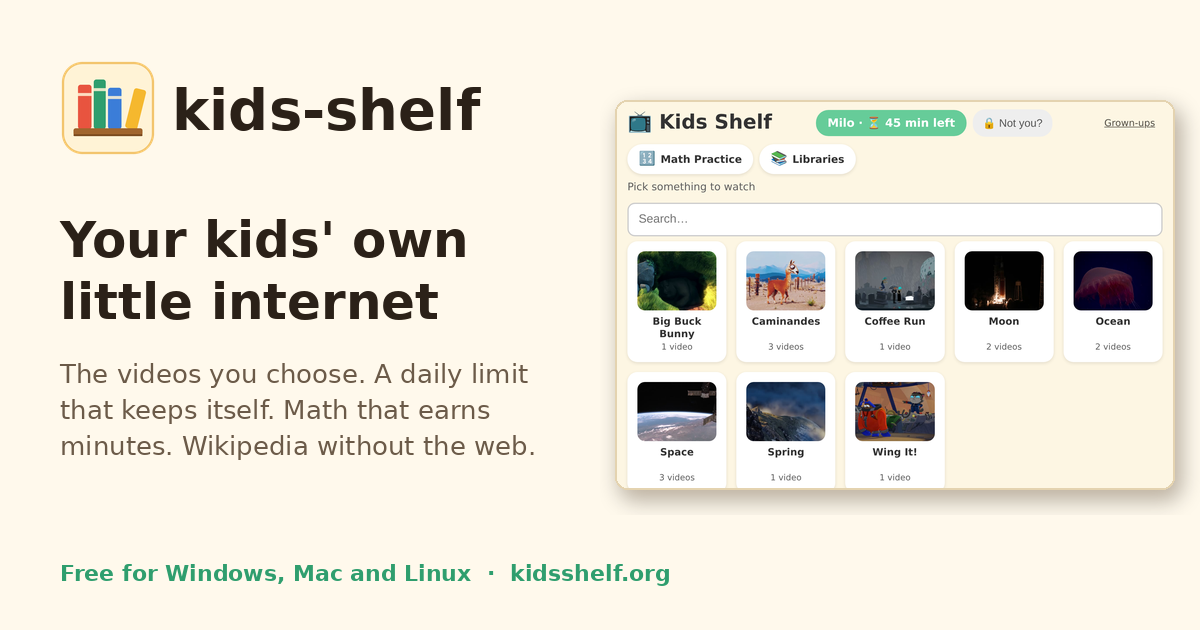
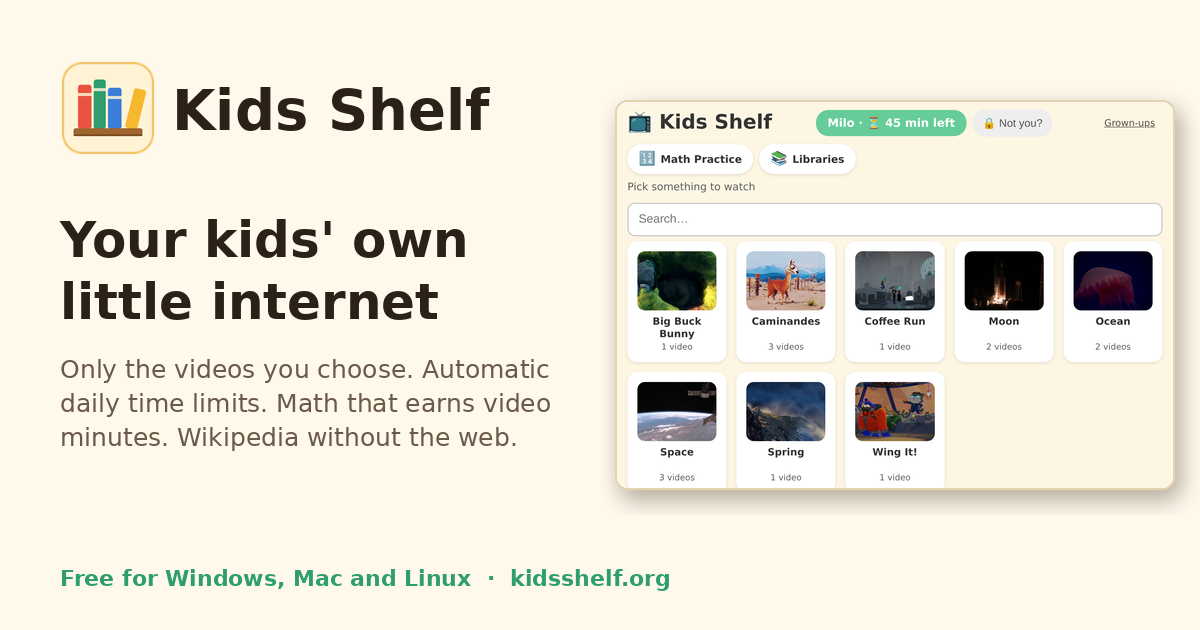
site: plainer wording, the name written Kids Shelf

Changed region(s): [[0.0308, 0.573, 0.4625, 0.7238], [0.1542, 0.1206, 0.4008, 0.2111], [0.0617, 0.8746, 0.555, 0.9349]]

diff --git a/site/index.html b/site/index.html
@@ -3,12 +3,12 @@
 <head>
 <meta charset="utf-8">
 <meta name="viewport" content="width=device-width, initial-scale=1">
-<title>kids-shelf: your kids' own little internet</title>
-<meta name="description" content="kids-shelf turns a computer you already have into a small internet for your kids: the videos you choose, a daily time limit that keeps itself, math that earns extra minutes, and Wikipedia without the rest of the web. Free for Windows, Mac and Linux.">
+<title>Kids Shelf: your kids' own little internet</title>
+<meta name="description" content="Kids Shelf turns a computer you already have into a small internet for your kids: only the videos you choose, automatic daily time limits, math practice that earns extra video minutes, and Wikipedia without the rest of the web. Free for Windows, Mac and Linux.">
 <meta property="og:type" content="website">
 <meta property="og:url" content="https://kidsshelf.org/">
-<meta property="og:title" content="kids-shelf: your kids' own little internet">
-<meta property="og:description" content="The videos you choose, a daily time limit that keeps itself, math that earns extra minutes, and Wikipedia without the rest of the web. Free, on a computer you already have.">
+<meta property="og:title" content="Kids Shelf: your kids' own little internet">
+<meta property="og:description" content="Only the videos you choose, automatic daily time limits, math that earns extra video minutes, and Wikipedia without the rest of the web. Free, on a computer you already have.">
 <meta property="og:image" content="https://kidsshelf.org/img/og.png">
 <meta property="og:image:width" content="1200">
 <meta property="og:image:height" content="630">
@@ -21,7 +21,7 @@
 <body>
 
 <header class="top">
-  <a class="brand" href="#"><img src="icon.svg" alt="" width="36" height="36"><span>kids-shelf</span></a>
+  <a class="brand" href="#"><img src="icon.svg" alt="" width="36" height="36"><span>Kids Shelf</span></a>
   <nav>
     <a href="#features">What it does</a>
     <a href="#install">Install</a>
@@ -35,30 +35,30 @@
 <section class="hero">
   <div class="hero-text">
     <h1>Your kids' own little internet</h1>
-    <p class="lead">kids-shelf turns a computer you already have into a small internet for your kids: the
-      videos you choose, a daily time limit that keeps itself, math practice that earns extra
+    <p class="lead">Kids Shelf turns a computer you already have into a small internet for your kids:
+      only the videos you choose, automatic daily time limits, math practice that earns extra video
       minutes, and Wikipedia without the rest of the web.</p>
     <div class="get" data-get>
-      <a class="btn big" data-main href="#download">Download kids-shelf</a>
+      <a class="btn big" data-main href="#download">Download Kids Shelf</a>
       <p class="get-note" data-main-note>Free for Windows, Mac and Linux.</p>
     </div>
-    <p class="phone-note hidden" data-phone-note>kids-shelf runs on a computer. Open this page on the
+    <p class="phone-note hidden" data-phone-note>Kids Shelf runs on a computer. Open this page on the
       Windows PC, Mac or Linux computer that will keep the videos, and download it there. Then this
-      phone, the TV and every other screen in the house open kids-shelf in their web browser.</p>
+      phone, the TV and every other screen in the house open Kids Shelf in their web browser.</p>
   </div>
   <div class="hero-shots">
     <img class="shot desk" src="img/shelf.webp" width="1600" height="1114"
-      alt="A kid's shelf in kids-shelf: rows of shows with pictures, and the minutes left today at the top">
+      alt="A kid's shelf in Kids Shelf: rows of shows with pictures, and the minutes left today at the top">
     <img class="shot phone" src="img/shelf-phone.webp" width="780" height="1560"
       alt="The same shelf on a phone">
   </div>
 </section>
 
 <section class="points" aria-label="In short">
-  <div><b>No feed</b><span>Nothing picks the next video.</span></div>
+  <div><b>No algorithm, no autoplay</b><span>Nothing picks or plays the next video, so there's no loop to get hooked on.</span></div>
   <div><b>No ads</b><span>No accounts, no tracking.</span></div>
   <div><b>Every screen</b><span>TV, laptop, phone: any web browser.</span></div>
-  <div><b>Free</b><span>Open source, MIT licence.</span></div>
+  <div><b>Free</b><span>Open source, MIT license.</span></div>
 </section>
 
 <section id="features" class="features">
@@ -67,7 +67,7 @@
     <img class="shot" src="img/timesup.webp" width="1500" height="940" loading="lazy"
       alt="The player saying Time's up! You used all your minutes for today. Shows marked Free still work.">
     <div>
-      <h2>A daily limit that keeps itself</h2>
+      <h2>Automatic daily time limits</h2>
       <p>Each kid picks their name, types their own PIN and sees how many minutes are left today.
         The minutes count down while they watch. At zero the video stops and the shelf says
         <q>Time's up!</q>, so you are not the one who has to say it.</p>
@@ -81,10 +81,12 @@
     <img class="shot" src="img/math.webp" width="1600" height="1000" loading="lazy"
       alt="Math practice asking 1 + 14, with the coin count: 5 of 10 coins, 5 more for 1 more minute of watching">
     <div>
-      <h2>Math that earns minutes</h2>
-      <p>Math and spelling practice is one tap from the shelf. Right answers fill a coin jar, and
-        every full jar is another minute of video. It gives kids their own reason to practice, and
-        the extra time is capped each day, so practice can't turn into an all-day pass.</p>
+      <h2>Math that earns video minutes</h2>
+      <p>Short math and spelling rounds are one tap from the shelf. Right answers fill a coin jar,
+        and every full jar adds a minute of video time. Each round leans toward the facts your kid
+        hasn't mastered yet.</p>
+      <p>Kids can earn up to 3 minutes a day from math and 3 from spelling. To earn more, they come
+        back tomorrow: a little practice every day sticks better than one long session.</p>
     </div>
   </article>
 
@@ -104,21 +106,23 @@
       alt="The video player paused on a short film, with the minutes left and a Big screen button above it">
     <div>
       <h2>Only the videos you choose</h2>
-      <p>There is no feed and no autoplay. Your kids see only the shows you put on their shelf,
-        and when an episode ends it stops; the next one plays only if they press <b>Next</b>.</p>
-      <p>Paste a link to a YouTube video, a playlist or a whole channel, and kids-shelf downloads it
+      <p>There's no algorithmic feed and no autoplay, the two things that keep kids watching one
+        more video. Your kids see only the shows you put on their shelf. When an episode ends, it
+        stops; the next one plays only if they press <b>Next</b>.</p>
+      <p>Paste a link to a YouTube video, a playlist or a whole channel, and Kids Shelf downloads it
         and keeps its own copy, so your kids never see YouTube itself: no suggestions, no
-        comments, no ads. Your own video files and NAS folders work too.</p>
+        comments, no ads. Videos you already have, on your computer or a home network drive, work
+        too.</p>
     </div>
   </article>
 
   <article class="feature">
     <img class="shot" src="img/wikipedia.webp" width="1600" height="1004" loading="lazy"
-      alt="The Wikipedia article Solar eclipse, opened from the offline library in kids-shelf">
+      alt="The Wikipedia article Solar eclipse, opened from the offline library in Kids Shelf">
     <div>
       <h2>Wikipedia, without the web</h2>
       <p>Download offline libraries: Wikipedia, Vikidia (an encyclopedia written for 8 to 13
-        year olds), PhET science simulations and more. They live on your computer and work with
+        year olds), PhET's interactive science experiments and more. They live on your computer and work with
         the internet unplugged. Links that would leave the library don't open.</p>
       <p class="small">Sizes range from 74 MB (Vikidia) to about 120 GB (all of English Wikipedia).
         Library files you already have from the Kiwix app work where they are.</p>
@@ -130,7 +134,7 @@
       alt="Who's watching? Each kid has a big button with their name">
     <div>
       <h2>Every screen in the house</h2>
-      <p>One computer runs kids-shelf. Anything with a web browser on your home Wi-Fi opens it: the
+      <p>One computer runs Kids Shelf. Anything with a web browser on your home Wi-Fi opens it: the
         TV, a Raspberry Pi, an old laptop, a phone. Scan the QR code on the parent page, or type
         <code>kids-shelf.local:8070</code>. There is nothing to install on the screens and nothing
         to buy.</p>
@@ -144,10 +148,11 @@
       <h2>Yours, on your computer</h2>
       <p>No accounts, no cloud, no ads and no tracking. Your videos, libraries and settings stay
         on your own computer, and nothing the kids watch, read or type leaves it.
-        kids-shelf goes online only to download what you add and to update itself and its video
+        Kids Shelf goes online only to download what you add and to update itself and its video
         tools.</p>
-      <p>It updates itself once a day, checks every update's signature first, and goes back to
-        the old version by itself if a new one doesn't start.</p>
+      <p>It updates itself, checks that each update really came from me before installing it,
+        goes back to the previous version by itself if a new one doesn't start, and clears away
+        old versions so it doesn't fill up your disk.</p>
     </div>
   </article>
 
@@ -155,21 +160,21 @@
 
 <section id="download" class="download">
   <h2>Download</h2>
-  <p class="release" data-release>Free. Pick the file for the computer that will run kids-shelf.</p>
+  <p class="release" data-release>Free. Pick the file for the computer that will run Kids Shelf.</p>
   <ul class="files" data-files>
     <li data-key="windows"><a href="https://github.com/edementhon/kids-shelf/releases/latest/download/kids-shelf_windows_amd64.zip"><b>Windows</b><span>64-bit Windows</span><i data-size></i></a></li>
     <li data-key="mac"><a href="https://github.com/edementhon/kids-shelf/releases/latest/download/kids-shelf_darwin_universal.zip"><b>Mac</b><span>Apple chip or Intel</span><i data-size></i></a></li>
     <li data-key="linux"><a href="https://github.com/edementhon/kids-shelf/releases/latest/download/kids-shelf_linux_amd64.zip"><b>Linux PC</b><span>64-bit Intel or AMD</span><i data-size></i></a></li>
     <li data-key="linux-arm"><a href="https://github.com/edementhon/kids-shelf/releases/latest/download/kids-shelf_linux_arm64.zip"><b>Raspberry Pi</b><span>64-bit Raspberry Pi OS</span><i data-size></i></a></li>
   </ul>
-  <p class="small">The computer that runs kids-shelf has to be switched on and awake while the kids
+  <p class="small">The computer that runs Kids Shelf has to be switched on and awake while the kids
     watch, and it keeps the videos and libraries, so it needs the disk space for them. Every
     release, with its source code, is on <a href="https://github.com/edementhon/kids-shelf/releases">GitHub</a>.</p>
 </section>
 
 <section id="install" class="install">
   <h2>Install</h2>
-  <p>kids-shelf is free and isn't sold through Microsoft or Apple, so both of them warn you before
+  <p>Kids Shelf is free and isn't sold through Microsoft or Apple, so both of them warn you before
     it first runs. The warnings sound scary. They are normal for this app, and the steps below
     show what to click.</p>
 
@@ -183,12 +188,12 @@
         <img class="step" src="img/win-run-anyway.webp" width="640" height="400" loading="lazy"
           alt="Windows protected your PC, with the Run anyway button"></li>
       <li>Windows Firewall asks whether <b>Kids Shelf</b> may use public and private networks. Click
-        <b>Allow</b>: it lets the other screens on your Wi-Fi reach kids-shelf.</li>
-      <li>kids-shelf installs itself and opens in your browser. From now on, start it from the
+        <b>Allow</b>: it lets the other screens on your Wi-Fi reach Kids Shelf.</li>
+      <li>Kids Shelf installs itself and opens in your browser. From now on, start it from the
         <b>kids-shelf</b> icon on the desktop or in the Start menu.</li>
     </ol>
     <p class="small">Some Windows 11 computers have <b>Smart App Control</b> switched on. Windows then checks
-      kids-shelf before it lets it run, which can take a minute the first time and, now and then,
+      Kids Shelf before it lets it run, which can take a minute the first time and, now and then,
       up to an hour. The <a href="https://github.com/edementhon/kids-shelf/blob/main/docs/parent-guide.md#windows-11">full guide</a>
       explains what you'll see.</p>
   </details>
@@ -207,7 +212,7 @@
         <img class="step" src="img/mac-open-anyway.webp" width="640" height="400" loading="lazy"
           alt="Privacy and Security settings with the Open Anyway button"></li>
       <li>macOS asks once more. Click <b>Open Anyway</b> and type your Mac password.</li>
-      <li>kids-shelf installs itself into Applications, puts its icon (a little bookshelf) in the Dock
+      <li>Kids Shelf installs itself into Applications, puts its icon (a little bookshelf) in the Dock
         and opens in Safari. When macOS asks whether kids-shelf may find devices on local networks,
         click <b>Allow</b>.</li>
     </ol>
@@ -241,19 +246,19 @@
   <h2>Questions</h2>
   <details>
     <summary>What does it cost?</summary>
-    <p>Nothing. kids-shelf is free and open source under the MIT licence. There is no subscription,
+    <p>Nothing. Kids Shelf is free and open source under the MIT license. There is no subscription,
       no paid version and no ads.</p>
   </details>
   <details>
     <summary>Why is it free?</summary>
-    <p>I made kids-shelf for my own kids. Friends wanted to try it with theirs, and sharing it
+    <p>I made Kids Shelf for my own kids. Friends wanted to try it with theirs, and sharing it
       costs me nothing, so here it is.</p>
   </details>
   <details>
     <summary>Why do Windows and macOS warn about it?</summary>
     <p>Microsoft and Apple warn about any app whose maker hasn't paid them to vouch for it.
-      kids-shelf doesn't pay, so you see the warnings once, when you first open it. Updates
-      install without them, and each one is signed so kids-shelf can check it came from me.</p>
+      Kids Shelf doesn't pay, so you see the warnings once, when you first open it. Updates
+      install without them, and each one is signed so Kids Shelf can check it came from me.</p>
   </details>
   <details>
     <summary>Does it need the internet?</summary>
@@ -268,9 +273,9 @@
   </details>
   <details>
     <summary>Can my kids get around it?</summary>
-    <p>kids-shelf decides what its shelf shows and for how long. It doesn't lock down the phone,
+    <p>Kids Shelf decides what its shelf shows and for how long. It doesn't lock down the phone,
       tablet or TV the kids use, so a kid who can open a web browser can still go elsewhere. It
-      works best on screens set to open only kids-shelf, like a TV browser or a Raspberry Pi.</p>
+      works best on screens set to open only Kids Shelf, like a TV browser or a Raspberry Pi.</p>
   </details>
   <details>
     <summary>Can I see the code?</summary>
@@ -282,8 +287,8 @@
 </main>
 
 <footer>
-  <p><img src="icon.svg" alt="" width="20" height="20"> kids-shelf. Free and open source
-    (<a href="https://github.com/edementhon/kids-shelf/blob/main/LICENSE">MIT licence</a>).
+  <p><img src="icon.svg" alt="" width="20" height="20"> Kids Shelf. Free and open source
+    (<a href="https://github.com/edementhon/kids-shelf/blob/main/LICENSE">MIT license</a>).
     <a href="https://github.com/edementhon/kids-shelf">Source code</a>.</p>
   <p class="small">This site sets no cookies and loads nothing from other sites except the version
     number and file sizes, which it asks GitHub for.</p>

diff --git a/site/download.js b/site/download.js
@@ -64,7 +64,7 @@
       ? new Date(rel.published_at).toLocaleDateString(undefined, { year: 'numeric', month: 'long', day: 'numeric' })
       : '';
     $('[data-release]').textContent = 'Version ' + version + (when ? ', released ' + when : '') +
-      '. Free. Pick the file for the computer that will run kids-shelf.';
+      '. Free. Pick the file for the computer that will run Kids Shelf.';
     if (others && /^[0-9A-Za-z.+-]+$/.test(version)) {
       $('[data-main-note]').innerHTML = 'Version ' + version + ', free. ' + others;
     }

diff --git a/THIRD_PARTY_NOTICES.md b/THIRD_PARTY_NOTICES.md
@@ -1,9 +1,9 @@
 # Third Party Notices
 
-kids-shelf itself is licensed under the MIT licence (see LICENSE). It
+kids-shelf itself is licensed under the MIT license (see LICENSE). It
 also bundles third-party programs and libraries, which keep their own
-licences; this file lists every bundled component with its version,
-licence and upstream URL, so nothing ships without its provenance. The
+licenses; this file lists every bundled component with its version,
+license and upstream URL, so nothing ships without its provenance. The
 helper programs are separate programs that kids-shelf extracts and runs;
 they are not linked into kids-shelf's own code.
 
@@ -16,7 +16,7 @@ The Go module sources are the ones go.sum pins.
 
 ## Bundled helper programs (inside every release zip)
 
-| Component | Version | Licence | Upstream |
+| Component | Version | License | Upstream |
 | --- | --- | --- | --- |
 | FFmpeg (ffmpeg, ffprobe, plus ffmpeg-hw on linux/amd64) | 9.0.2 | GPL-2.0-or-later as built: configured with `--enable-gpl` and libx264 (stock FFmpeg without the GPL parts is LGPL-2.1-or-later; LICENSE.md in the sources explains the split). ffmpeg-hw is the same build linked against glibc (2.28 symbol baseline) with the h264_vaapi, h264_nvenc and h264_qsv encoders; it loads libva/libva-drm from the user's system at run time | https://ffmpeg.org/ |
 | x264 | b35605ace3ddf7c1a5d67a2eb553f034aef41d55 | GPL-2.0-or-later | https://code.videolan.org/videolan/x264 |
@@ -26,28 +26,28 @@ The Go module sources are the ones go.sum pins.
 | libkiwix | 14.2.1 | GPL-3.0-or-later | https://github.com/kiwix/libkiwix |
 | libzim | 9.8.2 | GPL-3.0-or-later | https://github.com/openzim/libzim |
 | xapian-core | 1.4.23 | GPL-2.0-or-later | https://xapian.org/ |
-| ICU4C | 73.2 | Unicode-DFS-2016 (the Unicode licence in its LICENSE file) | https://github.com/unicode-org/icu |
+| ICU4C | 73.2 | Unicode-DFS-2016 (the Unicode license in its LICENSE file) | https://github.com/unicode-org/icu |
 | zstd | 1.5.7 | BSD-3-Clause | https://github.com/facebook/zstd |
-| xz (liblzma) | 5.2.6 | public domain / 0BSD (several licences, per-file split in its COPYING) | https://tukaani.org/xz/ |
+| xz (liblzma) | 5.2.6 | public domain / 0BSD (several licenses, per-file split in its COPYING) | https://tukaani.org/xz/ |
 | zlib | 1.3.1 | Zlib | https://github.com/madler/zlib |
 | pugixml | 1.15 | MIT | https://github.com/zeux/pugixml |
 | docopt.cpp | 0.6.3 | MIT (LICENSE-MIT in the archive) | https://github.com/docopt/docopt.cpp |
-| libcurl | 8.4.0 | curl licence (MIT-style ISC with the curl exceptions) | https://curl.se/ |
+| libcurl | 8.4.0 | curl license (MIT-style ISC with the curl exceptions) | https://curl.se/ |
 | libmicrohttpd | 0.9.76 | LGPL-2.1-or-later (dual-licensed with the eCos exception; this build enables no TLS, so the LGPL path applies) | https://www.gnu.org/software/libmicrohttpd/ |
 | mustache.hpp (kainjow/Mustache) | 4.1 | BSL-1.0 (per the pinned archive's LICENSE) | https://dev.kiwix.org/kiwix-build/mustache-4.1.tar.gz (upstream https://github.com/kainjow/Mustache) |
-| NVIDIA Codec SDK headers (ffnvcodec: h264_nvenc on windows and ffmpeg-hw) | 13.0.19.0 | NVIDIA permissive licence (MIT-style text in every header; FFmpeg's configure has not required `--enable-nonfree` for nvenc since 4.0) | https://github.com/FFmpeg/nv-codec-headers |
+| NVIDIA Codec SDK headers (ffnvcodec: h264_nvenc on windows and ffmpeg-hw) | 13.0.19.0 | NVIDIA permissive license (MIT-style text in every header; FFmpeg's configure has not required `--enable-nonfree` for nvenc since 4.0) | https://github.com/FFmpeg/nv-codec-headers |
 | AMF headers (h264_amf, windows) | 1.5.3 | MIT | https://github.com/GPUOpen-LibrariesAndSDKs/AMF |
 | oneVPL / libvpl (h264_qsv, windows and ffmpeg-hw) | 2.17.0 | MIT | https://github.com/intel/libvpl |
 | libva (h264_vaapi headers and link stubs for ffmpeg-hw; never bundled) | 2.24.1 | MIT | https://github.com/intel/libva |
 | libdrm (libva-drm build dependency for ffmpeg-hw; never bundled) | 2.4.122 | MIT | https://dri.freedesktop.org/libdrm/ |
-| macOS SDK (h264_videotoolbox framework headers and .tbd link stubs, darwin; build time only) | 11.3 | Apple SDK licence: used to build, never redistributed, so it is not in the helper sources archive; the darwin ffmpeg links only macOS's own VideoToolbox, CoreMedia, CoreVideo and CoreFoundation frameworks | https://github.com/phracker/MacOSX-SDKs |
+| macOS SDK (h264_videotoolbox framework headers and .tbd link stubs, darwin; build time only) | 11.3 | Apple SDK license: used to build, never redistributed, so it is not in the helper sources archive; the darwin ffmpeg links only macOS's own VideoToolbox, CoreMedia, CoreVideo and CoreFoundation frameworks | https://github.com/phracker/MacOSX-SDKs |
 
 ## Go module dependencies (linked into the kids-shelf binaries)
 
-Resolved from go.mod; sources and licences are the ones the module cache
+Resolved from go.mod; sources and licenses are the ones the module cache
 and go.sum pin. Versions match go.mod at the time of writing.
 
-| Module | Version | Licence |
+| Module | Version | License |
 | --- | --- | --- |
 | golang.org/x/net | v0.62.0 | BSD-3-Clause |
 | golang.org/x/sys | v0.49.0 | BSD-3-Clause |

diff --git a/README.md b/README.md
@@ -1,6 +1,6 @@
-# kids-shelf
+# Kids Shelf
 
-kids-shelf is a small "local internet" for kids. One computer on the
+Kids Shelf is a small "local internet" for kids. One computer on the
 home Wi-Fi runs it; any other device with a web browser opens it. There are
 no accounts, no cloud and no ads. Parents manage everything on a parent
 page (`/admin`); kids get their own pages with their own content.
@@ -33,13 +33,13 @@ go test ./...
 Cutting a signed release is documented in
 [docs/RELEASING.md](docs/RELEASING.md).
 
-## Licence
+## License
 
 MIT ([LICENSE](LICENSE)), from v0.3.1 on (v0.2.0 was released under
 GPL-3.0-or-later). The helper programs bundled inside each release
-(ffmpeg, ffprobe, kiwix-serve and qjs) keep their own licences, several
-of them GPL; kids-shelf runs them as separate programs.
+(ffmpeg, ffprobe, kiwix-serve and qjs) keep their own licenses, several
+of them GPL; Kids Shelf runs them as separate programs.
 [THIRD_PARTY_NOTICES.md](THIRD_PARTY_NOTICES.md) lists every bundled
-component with its version, licence and upstream URL, and the exact
+component with its version, license and upstream URL, and the exact
 pinned sources ship with each release as
 `kids-shelf-helper-sources-<version>.tar.gz`.
